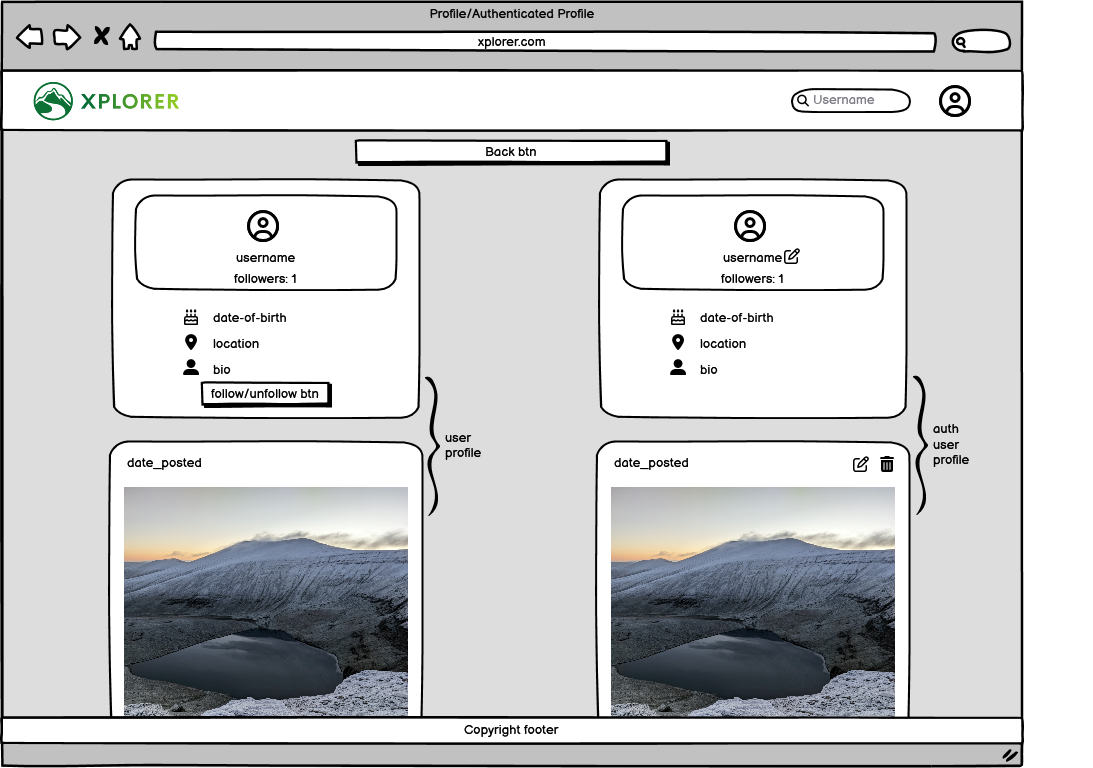
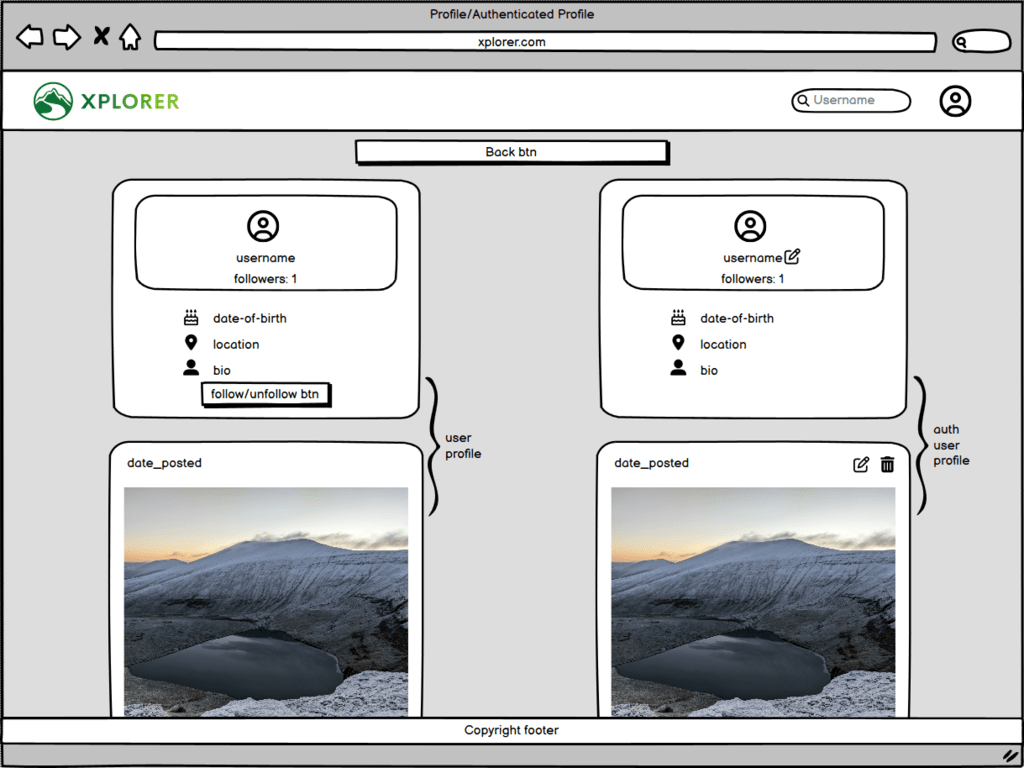
Readme update

diff --git a/static/style.css b/static/style.css
@@ -4,7 +4,7 @@
 
 /* Resets and utility classes */
 body {
-    background-color: #e4e4e4;
+    background-color: #e9e9e9;
 }
 
 footer {

diff --git a/README.md b/README.md
@@ -72,6 +72,8 @@ From the Epics, 31 User stories were developed. Each story was assigned a classi
 
 These are the user stories that were completed within the projects first release, by EPIC.
 
+<details><summary>VIEW</summary>
+
 ### **1. User Registration**
 
 * USER STORY [#26](https://github.com/kpetrauskas92/XPLORER/issues/26)
@@ -237,6 +239,8 @@ These are the user stories that were completed within the projects first release
     Secure Logout
   * As a logged-in user, I want to log out of my account so that I can ensure my account's security, especially on shared or public devices.
 
+</details>
+
 ### The Scope Plane
 
 **Features planned:**
@@ -265,6 +269,8 @@ These are the user stories that were completed within the projects first release
   * The platform is fully responsive to ensure optimal user experience across all device types.
 
 ### The Structure Plane
+
+<details><summary>VIEW</summary>
 
 ### 1. User Registration
 
@@ -718,39 +724,107 @@ USER STORY [#51](https://github.com/kpetrauskas92/XPLORER/issues/51)
 * Incorporate a "Logout" button or option on the platform.
 * Implement backend functionality to securely end user sessions upon logout.
 
+</details>
+
 ### The Skeleton Plane
 
 #### Wireframe mock-ups
 
-## Landing Page ![Landing Page Wireframe](media/readme/wireframes/Landing.png)
+The wireframes for the website were produced in Balsamiq. The frames shown below have resolution of 1024px width on left and right side, as it looks the same on smaller devices. The final site varies slightly from the wireframes due to developments that occured during the creation process.
 
-## Home Page ![Home Page Wireframe](media/readme/wireframes/Index.png)
+### Landing Page
 
-## Login/Register ![Login/Register Wireframe](media/readme/wireframes/Login_Register.png)
+<details><summary>VIEW - Wireframe</summary>
 
-## Post Detail ![Post Detail Wireframe](media/readme/wireframes/Post_Detail.png)
+![Landing Page Wireframe](media/readme/wireframes/Landing.png)
 
-## Profile ![Profile Wireframe](media/readme/wireframes/Profile.png)
+</details>
 
-## Search ![Search Wireframe](media/readme/wireframes/Search.png)
+### Login/Register
+
+<details><summary>VIEW - Wireframe</summary>
+
+![Login/Register Wireframe](media/readme/wireframes/Login_Register.png)
+
+</details>
+
+### Home Page
+
+<details><summary>VIEW - Wireframe</summary>
+
+![Home Page Wireframe](media/readme/wireframes/Index.png)
+
+</details>
+
+## Post Detail
+
+<details><summary>VIEW - Wireframe</summary>
+
+![Post Detail Wireframe](media/readme/wireframes/Post_Detail.png)
+
+</details>
+
+## Profile
+
+<details><summary>VIEW - Wireframe</summary>
+
+![Profile Wireframe](media/readme/wireframes/Profile.png)
+
+</details>
+
+## Search
+
+<details><summary>VIEW - Wireframe</summary>
+
+![Search Wireframe](media/readme/wireframes/Search.png)
+
+</details>
 
 #### Database Schema
 
-![Database Schema Diagram]()
+PostgreSQL was used as a database, hosted on ElephantSQL, to store and manage data. ElephantSQL provides a cloud-based PostgreSQL database service, ensuring reliability, scalability, and ease of management.
 
-### The Surface Plane
+* User: Represents the individual users of our application.
 
-#### Design
+* Post: Contains content created by users. Each post has an associated body, an optional image, and is linked to the author (a User). Posts can also be liked by multiple users, resulting in a many-to-many relationship.
 
-##### Typography
+* Comment: Represents comments made on posts. Each comment is linked to an author and a post. Comments also support a hierarchical structure, allowing for nested comments (replies). Like posts, comments can be liked by multiple users.
 
-##### Images
+* UserProfile: Provides extended information about a user, such as their name, bio, date of birth, location, and profile picture. Each user profile is linked to a single user. Additionally, users can follow other users, resulting in a many-to-many relationship between users.
+
+This structure allows for a dynamic and interactive platform where users can create content, engage with other users' content, and establish connections with other users. Diagram created with [dbdiagram.io](https://dbdiagram.io)
+
+![Database Schema Diagram](media/readme/db_diagram.png)
+
+#### The Surface Plane
+
+### Design
+
+XPLORER is a mobile-first social media platform designed to offer an app-like experience on the web. Its design places content at the center, capturing users' attention and reducing distractions.
+
+After setting up the site structure and wireframes, I picked the colors using colormind. For the look, I took inspiration from the colors of the logo and chose simple, distraction-free colors often found in social media platforms. I also checked the colors to ensure they contrast well, making the site easy to read and use for everyone.
+![Colour Palate image](media/readme/color_palette.png)
+
+
+### Typography
+
+For the fonts on XPLORER, I went with the System Font Stack. What's great about these "system" fonts is that they align with what the current operating system uses. This gives the site a familiar and comfortable look for users, as it matches the style they see on their devices daily.
+
+`font-family: system-ui, -apple-system, "Segoe UI", Roboto, "Helvetica Neue", "Noto Sans", "Liberation Sans", Arial, sans-serif, "Apple Color Emoji", "Segoe UI Emoji", "Segoe UI Symbol", "Noto Color Emoji"`
 
 ## Features
 
-#### Home page
+#### Home Page
 
-![Home Page]()
+![Home Page](media/readme/Homepage.png)
+
+#### Sign in Page
+
+![Signin Page](media/readme/Signin_page.png)
+
+#### Sign up Page
+
+![Signup Page](media/readme/Signup_page.png)
 
 #### Navigation Bar
 
